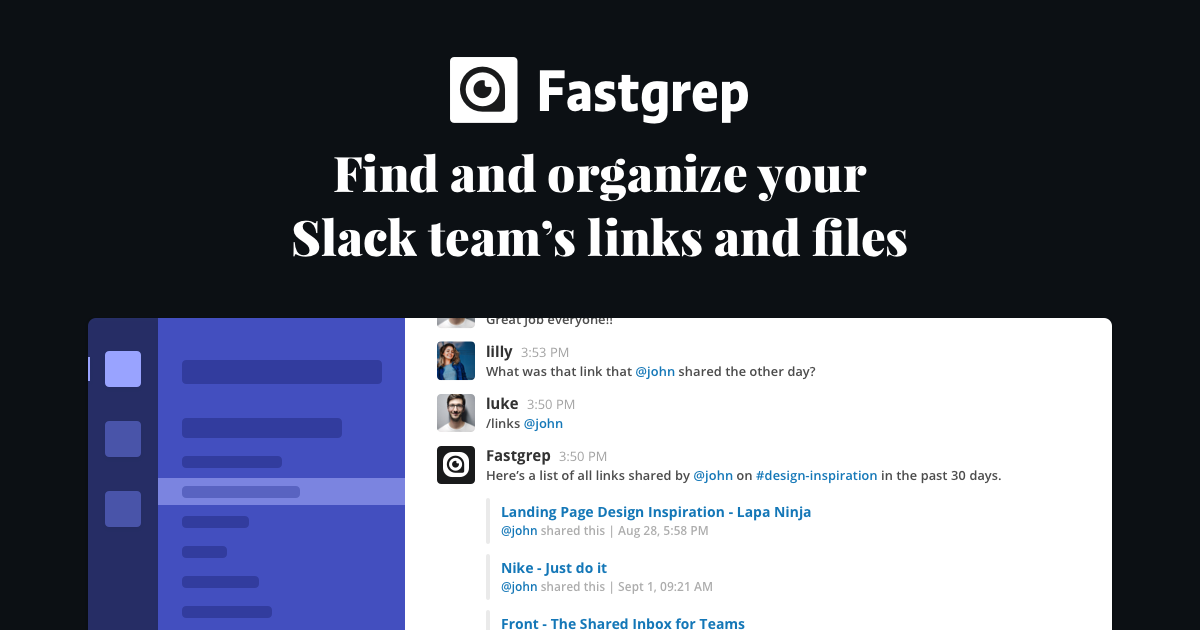
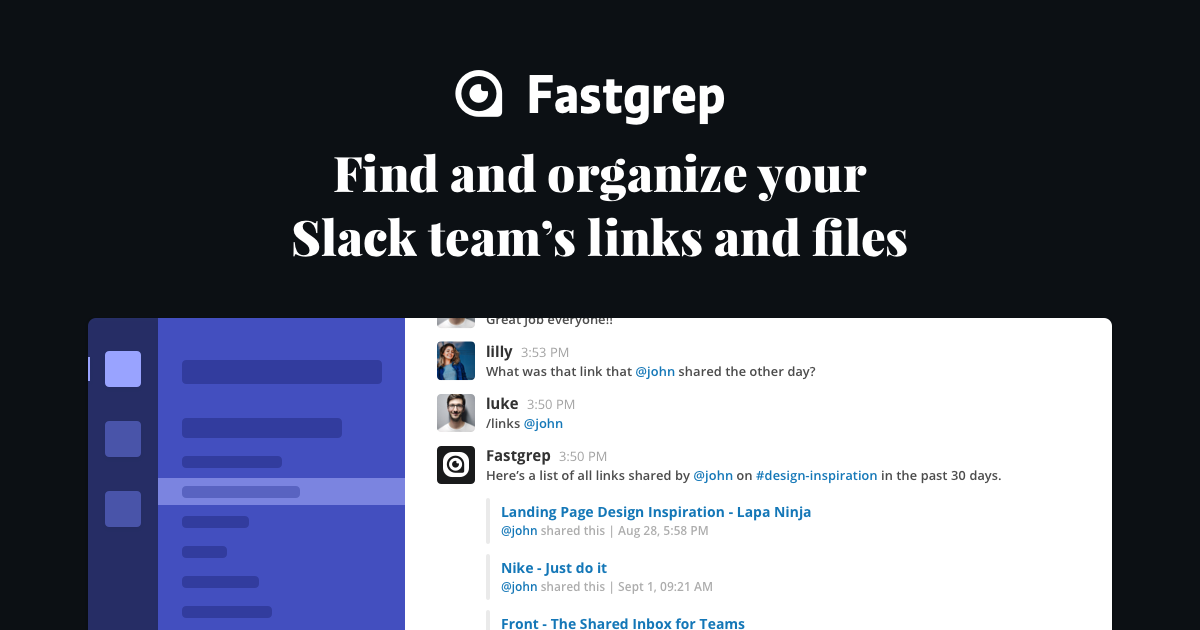
slack

Changed region(s): [[0.37, 0.0905, 0.6475, 0.2111]]

diff --git a/index.html b/index.html
@@ -36,7 +36,7 @@
 
 <header class="top">
     <a href="https://www.fastgrep.io"><img src="img/fastgrep@2x.png" class="logo-top"/></a>
-    <a href="slack.html" class="slack"><img src="img/slack-btn@2x.png" class="slack-btn-top slack-btn"/></a>
+    <a href="https://fastgrep.herokuapp.com/login" class="slack"><img src="img/slack-btn@2x.png" class="slack-btn-top slack-btn"/></a>
 </header>
 
 <div class="top-container">
@@ -147,7 +147,7 @@
         <div class="text-footer">
             <h2 class="footer-title">Ready to get started?</h2>
             <p class="description">Fastgrep monitors your team’s Slack channels and makes it easy to find every link and file shared by you and your teammates.</p>
-            <a href="slack.html" class="slack"><img src="img/slack-btn@2x.png" class="slack-btn footer-cta"/></a>        
+            <a href="https://fastgrep.herokuapp.com/login" class="slack"><img src="img/slack-btn@2x.png" class="slack-btn footer-cta"/></a>        
         </div>
     </div>
     <div class="footer-bottom">

diff --git a/privacy.html b/privacy.html
@@ -36,7 +36,7 @@
 
 <header class="top">
     <a href="https://www.fastgrep.io"><img src="img/fastgrep@2x.png" class="logo-top"/></a>
-    <a href="slack.html" class="slack"><img src="img/slack-btn@2x.png" class="slack-btn-top slack-btn"/></a>
+    <a href="https://fastgrep.herokuapp.com/login" class="slack"><img src="img/slack-btn@2x.png" class="slack-btn-top slack-btn"/></a>
 </header>
 
 <div class="title">
@@ -162,7 +162,7 @@
         <div class="text-footer">
             <h4 class="footer-title">Ready to get started?</h4>
             <p class="description">Fastgrep monitors your team’s Slack channels and makes it easy to find every link and file shared by you and your teammates.</p>
-            <a href="slack.html" class="slack"><img src="img/slack-btn@2x.png" class="slack-btn footer-cta"/></a>        
+            <a href="https://fastgrep.herokuapp.com/login" class="slack"><img src="img/slack-btn@2x.png" class="slack-btn footer-cta"/></a>        
         </div>
     </div>
     <div class="footer-bottom">

diff --git a/terms.html b/terms.html
@@ -36,7 +36,7 @@
 
 <header class="top">
     <a href="https://www.fastgrep.io"><img src="img/fastgrep@2x.png" class="logo-top"/></a>
-    <a href="slack.html" class="slack"><img src="img/slack-btn@2x.png" class="slack-btn-top slack-btn"/></a>
+    <a href="https://fastgrep.herokuapp.com/login" class="slack"><img src="img/slack-btn@2x.png" class="slack-btn-top slack-btn"/></a>
 </header>
 
 <div class="title">
@@ -109,7 +109,7 @@
         <div class="text-footer">
             <h4 class="footer-title">Ready to get started?</h4>
             <p class="description">Fastgrep monitors your team’s Slack channels and makes it easy to find every link and file shared by you and your teammates.</p>
-            <a href="slack.html" class="slack"><img src="img/slack-btn@2x.png" class="slack-btn footer-cta"/></a>        
+            <a href="https://fastgrep.herokuapp.com/login" class="slack"><img src="img/slack-btn@2x.png" class="slack-btn footer-cta"/></a>        
         </div>
     </div>
     <div class="footer-bottom">

diff --git a/faq.html b/faq.html
@@ -36,7 +36,7 @@
 
 <header class="top">
     <a href="https://www.fastgrep.io"><img src="img/fastgrep@2x.png" class="logo-top"/></a>
-    <a href="slack.html" class="slack"><img src="img/slack-btn@2x.png" class="slack-btn-top slack-btn"/></a>
+    <a href="https://fastgrep.herokuapp.com/login" class="slack"><img src="img/slack-btn@2x.png" class="slack-btn-top slack-btn"/></a>
 </header>
 
 <div class="title">
@@ -85,7 +85,7 @@
         <div class="text-footer">
             <h4 class="footer-title">Ready to get started?</h4>
             <p class="description">Fastgrep monitors your team’s Slack channels and makes it easy to find every link and file shared by you and your teammates.</p>
-            <a href="slack.html" class="slack"><img src="img/slack-btn@2x.png" class="slack-btn footer-cta"/></a>        
+            <a href="https://fastgrep.herokuapp.com/login" class="slack"><img src="img/slack-btn@2x.png" class="slack-btn footer-cta"/></a>        
         </div>
     </div>
     <div class="footer-bottom">

diff --git a/css/stylesheet.css b/css/stylesheet.css
@@ -32,7 +32,7 @@ img {
 
 .logo-top {
 	margin-top: 8px;
-	background-size: 150px 35px;
+	background-size: 130px 35px;
 	max-height: 35px;
 }
 
@@ -344,8 +344,8 @@ input[type=submit]:hover {
 }
 
 .fastgrep-alt {
-	background-size: 124px 30px;
-	max-height: 30px;	
+	background-size: 120px 25px;
+	max-height: 25px;	
 }
 
 

diff --git a/css/legal.css b/css/legal.css
@@ -32,7 +32,7 @@ img {
 
 .logo-top {
 	margin-top: 8px;
-	background-size: 150px 35px;
+	background-size: 130px 35px;
 	max-height: 35px;
 }
 
@@ -197,8 +197,8 @@ ol {
 }
 
 .fastgrep-alt {
-	background-size: 124px 30px;
-	max-height: 30px;	
+	background-size: 120px 25px;
+	max-height: 25px;	
 }
 
 
